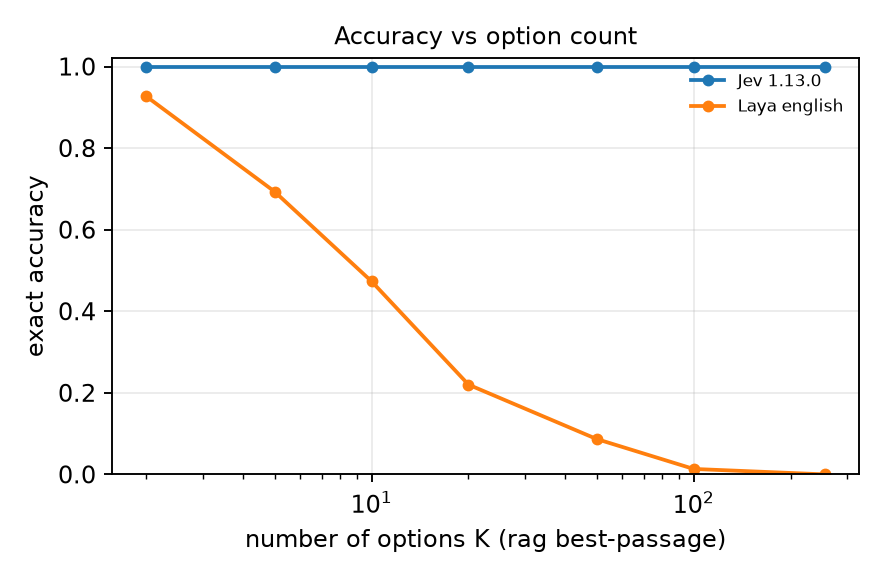
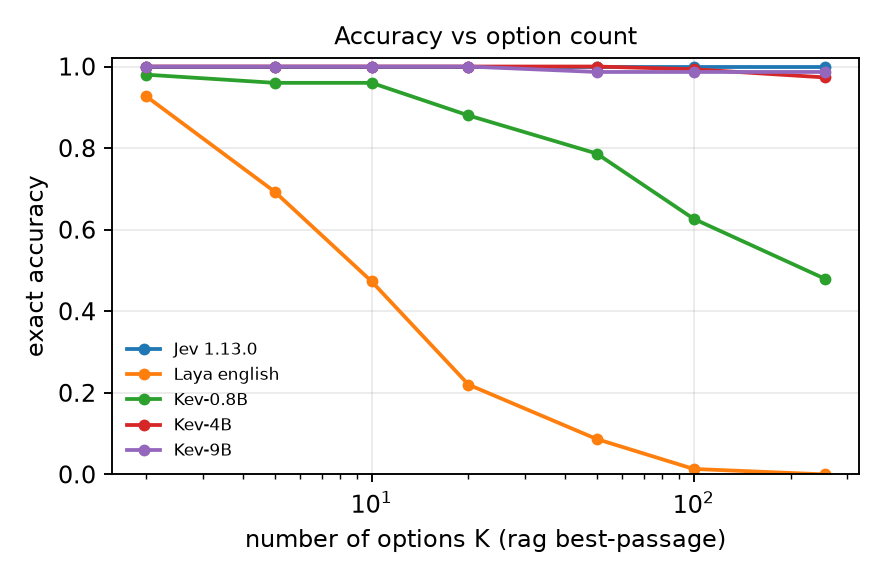
0.3.2: Kev support in the TypeSafe adapter and configs; cross-model figures with Kev 0.8B/4B/9B

diff --git a/src/sys1bench/__init__.py b/src/sys1bench/__init__.py
@@ -1,3 +1,3 @@
 """sys1bench: benchmark harness for typed System One decision models."""
 
-__version__ = "0.3.1"
+__version__ = "0.3.2"

diff --git a/README.md b/README.md
@@ -33,7 +33,7 @@ sys1bench report results --html results/dashboard.html            # tables + int
   <img src="docs/figures/latency_vs_questions.png" alt="Median latency versus number of questions per request" width="45%">
 </p>
 
-<p align="center"><sub>Jev 1.13.0 (hosted) and Laya 0.3.4 (local, GB10) on identical generated manifests, n = 500, September 2026. Left to right: accuracy across five paraphrases and criteria variants of the same question (red = canonical wording); reliability on the same question; accuracy as the option count grows from 2 to 255; median latency as more questions share one request. Hosted latency includes the network path and is not comparable to local compute time.</sub></p>
+<p align="center"><sub>Jev 1.13.0 (hosted), Laya 0.3.4 and Kev 0.8B / 4B / 9B (local, GB10) on identical generated manifests, n = 500, September 2026. Left to right: accuracy across five paraphrases and criteria variants of the same question (red = canonical wording); reliability on the same question; accuracy as the option count grows from 2 to 255; median latency as more questions share one request. Hosted latency includes the network path and is not comparable to local compute time.</sub></p>
 
 ## Why this benchmark
 

diff --git a/CHANGELOG.md b/CHANGELOG.md
@@ -1,5 +1,13 @@
 # Changelog
 
+## 0.3.2 (2026-09-23)
+
+- The TypeSafe adapter serves any API-compatible server: `url`, `api_key`, `allow_alias`, `deployment`, and a
+  `/v1/models` version probe recorded on every row. Packaged configs `kev_0.8b`, `kev_4b`, `kev_9b` for
+  [Kev](https://github.com/jaredpalmer/kev); Kev-0.8B/4B/9B benchmarked on the same manifests as Jev and Laya.
+- README with results figures across models; `multi_line_plot` for cross-model sweep charts.
+- Publish workflow skips files that already exist on PyPI.
+
 ## 0.3.1 (2026-09-22)
 
 - CLI fails fast with a clear message when no TypeSafe key is found, when the key is rejected (401/403), when a
